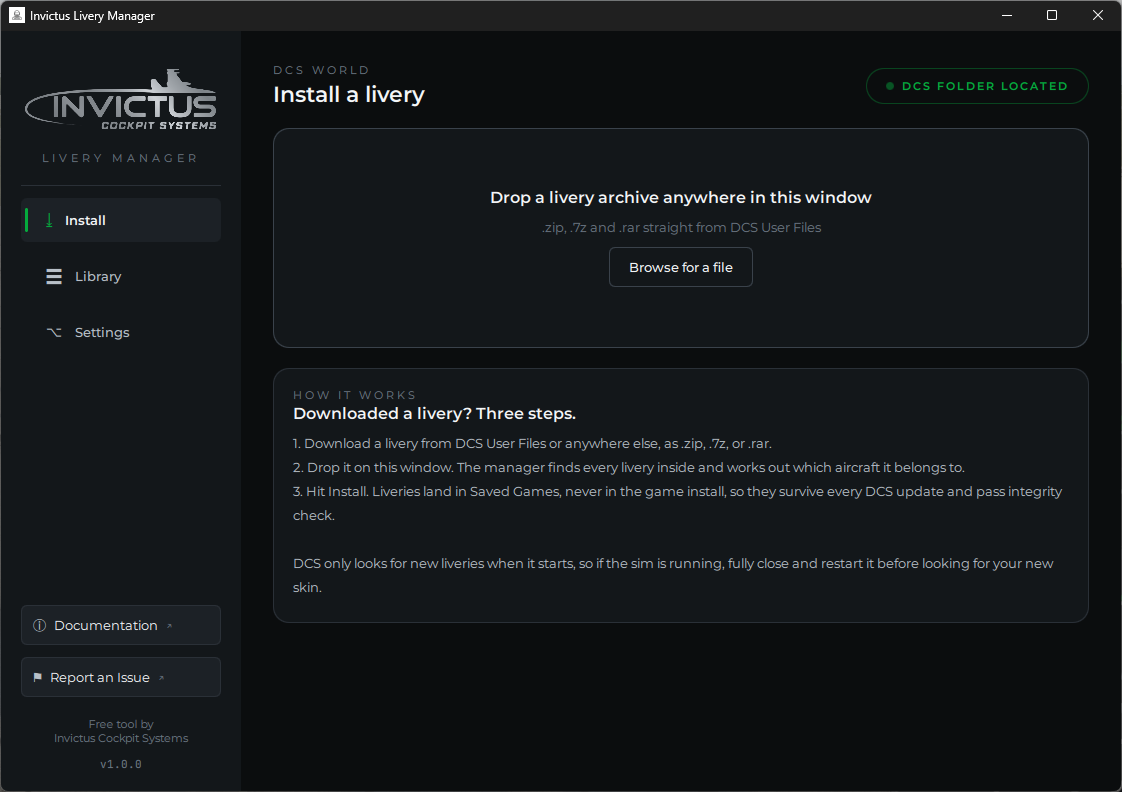
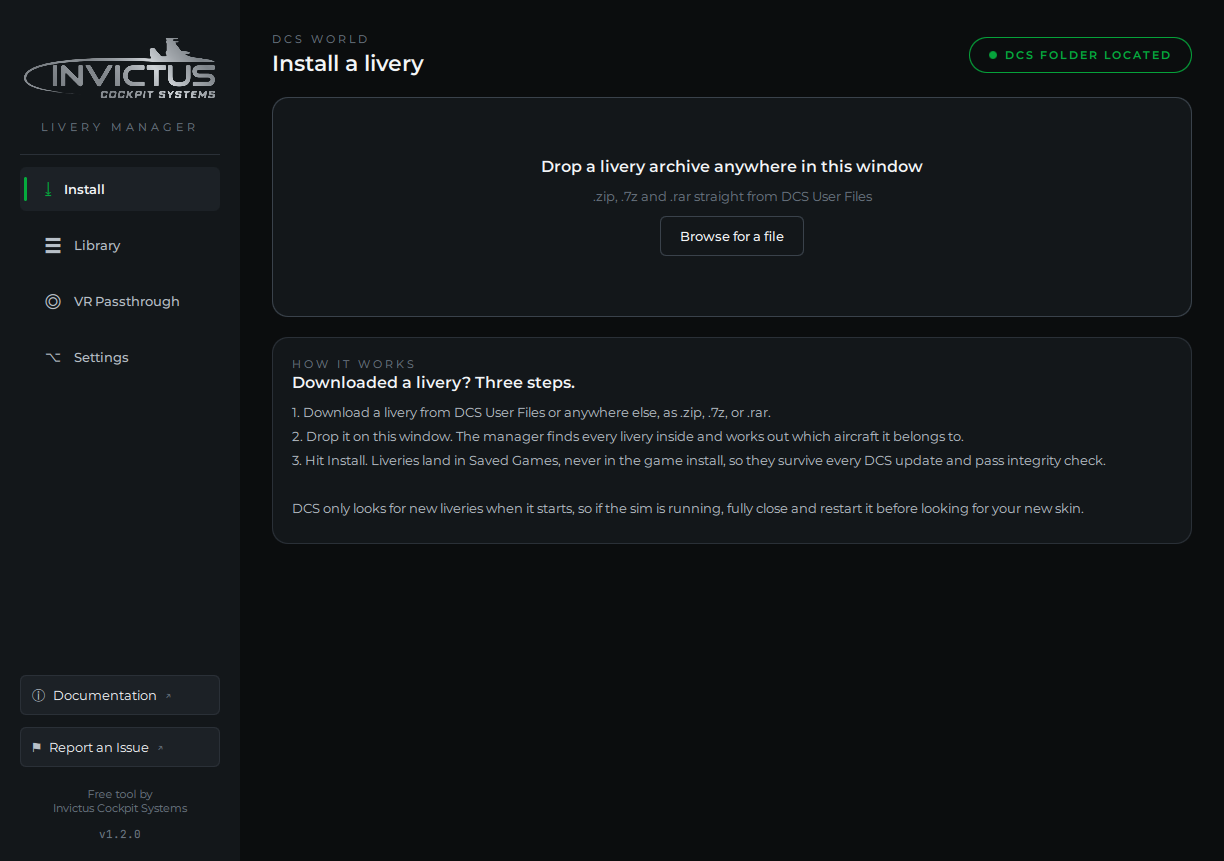
Livery Manager: refreshed screenshots for every page, VR page shot, arrow-style menu paths

diff --git a/docs/livery-manager/user-guide/vr-passthrough.md b/docs/livery-manager/user-guide/vr-passthrough.md
@@ -5,6 +5,8 @@
     we're refining it with tester feedback; report anything odd through
     **Report an Issue** in the app sidebar.
 
+![The VR Passthrough page](images/vr-passthrough.png)
+
 The VR Passthrough page sets up a mixed reality cockpit: you fly DCS in a
 headset while seeing your real, physical cockpit through passthrough. The
 manager installs a special cockpit livery that paints every physical surface
@@ -33,9 +35,9 @@ written into the game installation for this step.
 
 The livery installs under its own name, so your stock cockpit is untouched.
 Switch between the passthrough cockpit and the normal one any time in DCS
-under **Options, Special, F-16C, Cockpit Livery**. After installing or
-switching, always close DCS completely and restart it; DCS only scans for
-liveries at startup.
+under **Options → Special → F-16C → Customized Cockpit**. After installing
+or switching, always close DCS completely and restart it; DCS only scans
+for liveries at startup.
 
 **Remove** uninstalls both the livery and the helper mod cleanly.
 
@@ -126,8 +128,8 @@ improvements ship as soon as they're ready.
 
 - **The cockpit isn't magenta in DCS.** Restart DCS completely; liveries
   only load at startup. Then check all three status pills on the page are
-  green and that DCS's Special Options cockpit livery shows the passthrough
-  livery.
+  green and that **Options → Special → F-16C → Customized Cockpit** shows
+  the passthrough livery.
 - **Glare or reflections punch holes in the passthrough.** Run **Apply
   all** under Recommended DCS settings with DCS closed. If you changed
   graphics settings recently, re-run it; DCS sometimes reintroduces
